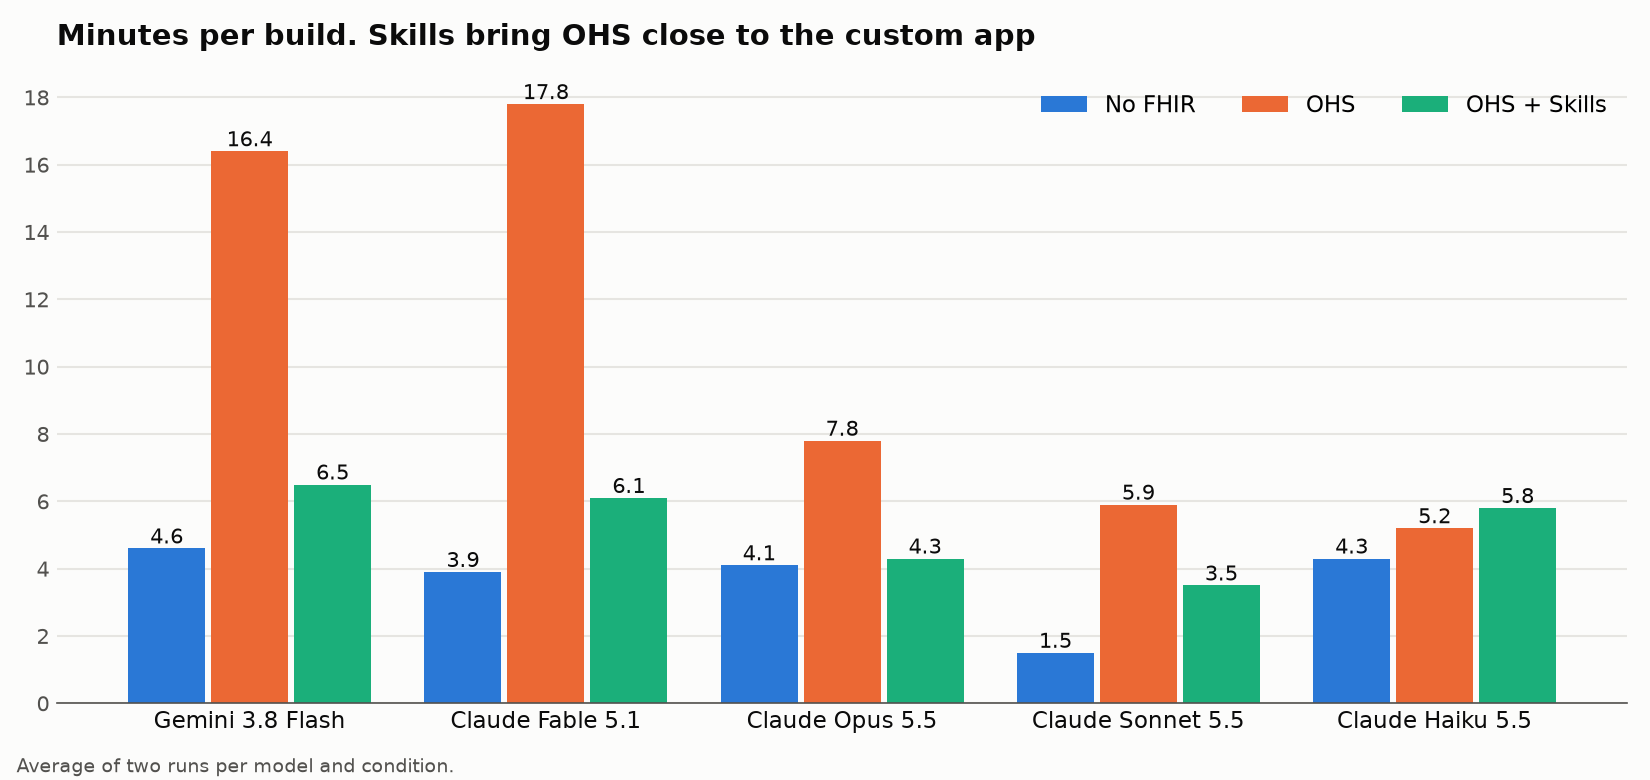
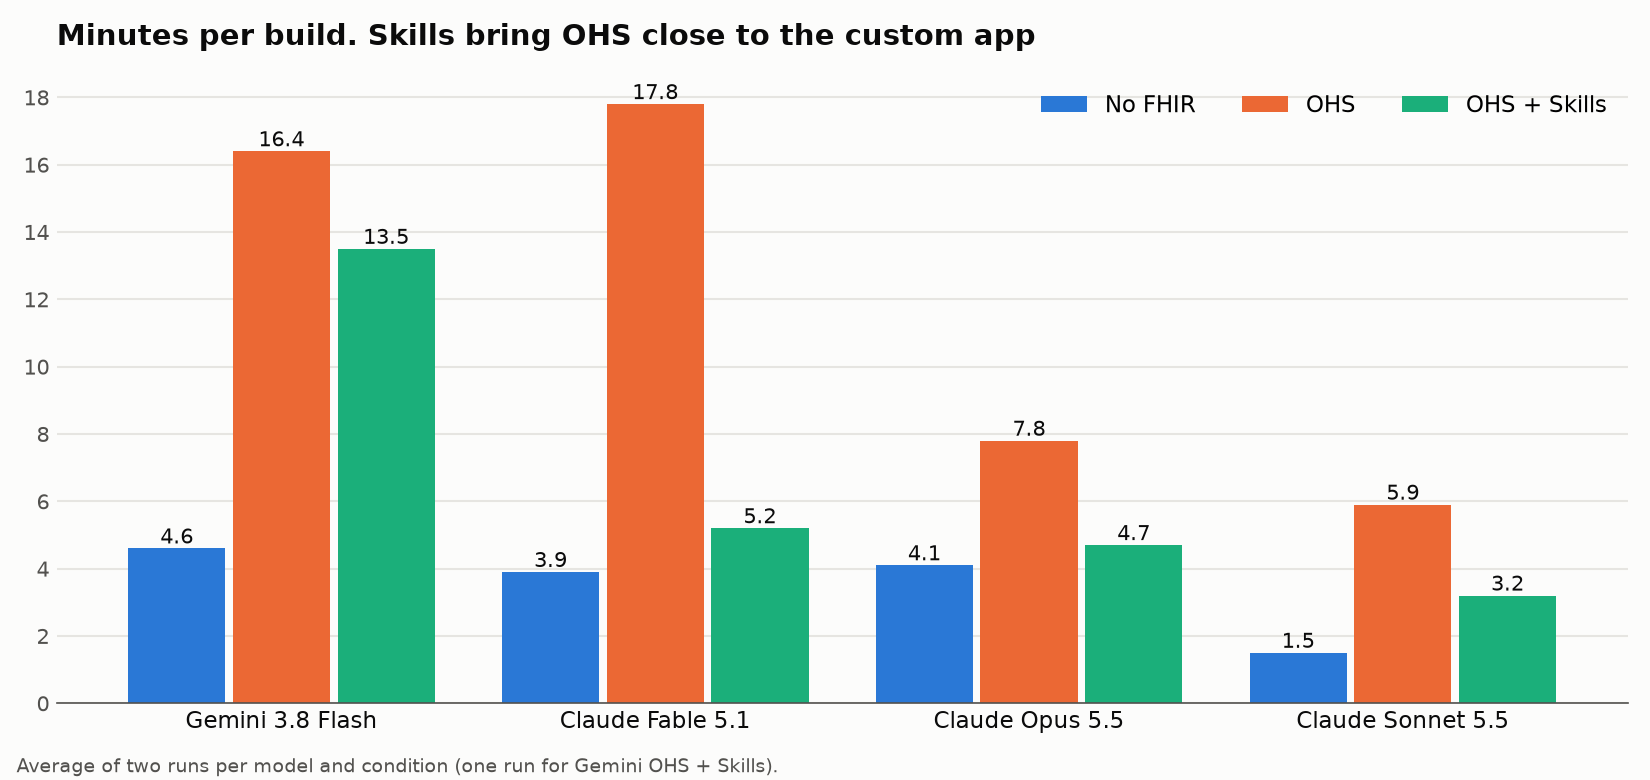
Record rerun walk results and stricter sync checks, update charts

Changed region(s): [[0.0927, 0.0923, 0.9582, 1.0]]

diff --git a/ohs-agent-experiment/results/plot_charts.py b/ohs-agent-experiment/results/plot_charts.py
@@ -19,14 +19,25 @@ MODELS = [
     ("claude-fable-5-1-medium", "Claude Fable 5.1"),
     ("claude-opus-5-5-medium", "Claude Opus 5.5"),
     ("claude-sonnet-5-5-medium", "Claude Sonnet 5.5"),
-    ("claude-haiku-5-5-medium", "Claude Haiku 5.5"),
 ]
 # Categorical slots 1-3 of the dataviz reference palette, checked for colorblind separation.
 CONDITIONS = [("cold", "No FHIR", "#2a78d6"), ("ohs", "OHS", "#eb6834"),
               ("ohs-skills", "OHS + Skills", "#1baf7a")]
 INK, MUTED, GRID = "#0b0b0b", "#52514e", "#e6e5e1"
 
-rows = list(csv.DictReader(open(HERE.parent / "results.csv")))
+# OHS + Skills uses the rerun with the fixed skill (skills v2.5); the other
+# conditions use the original runs 1 and 2. Haiku never built a working
+# offline app and is left out (see results/walk-offline-2026-10.md).
+SKILLS_RERUN = {"gemini-3.8-flash-medium": {"15"}}  # Claude models: runs 8 and 9
+
+
+def used(r):
+    if r["condition"] == "ohs-skills":
+        return r["replicate"] in SKILLS_RERUN.get(r["model"], {"8", "9"})
+    return r["condition"] in ("cold", "ohs") and r["replicate"] in ("1", "2")
+
+
+rows = [r for r in csv.DictReader(open(HERE.parent / "results.csv")) if used(r)]
 
 
 def avg(model, cond, column, step):
@@ -55,7 +66,7 @@ def plot(column, step, fmt, title, out):
     ax.spines["bottom"].set_color(MUTED)
     ax.legend(frameon=False, fontsize=11, ncols=3, loc="upper right")
     ax.set_title(title, fontsize=14, weight="bold", loc="left", color=INK, pad=14)
-    fig.text(0.01, 0.01, "Average of two runs per model and condition.", fontsize=9, color=MUTED)
+    fig.text(0.01, 0.01, "Average of two runs per model and condition (one run for Gemini OHS + Skills).", fontsize=9, color=MUTED)
     fig.tight_layout(rect=(0, 0.03, 1, 1))
     fig.savefig(HERE / out, dpi=150, facecolor="#fcfcfb")
 

diff --git a/ohs-agent-experiment/results/walk-offline-2026-10.md b/ohs-agent-experiment/results/walk-offline-2026-10.md
@@ -121,6 +121,122 @@ Average 5.5/9.
 - **Fable run 2 was rerun.** The first attempt hung on a broken heredoc and a
   wait loop that matched itself. It was killed after 19 min and removed.
 
+## OHS + skills rerun with skills v2.5 (2026-10-28)
+
+The kotlin-fhir-engine skill was updated to v2.5 ("Sync without crashes",
+see `skills/README.md`) after the offline test above found the crash. The
+ohs-skills condition was rerun with the same prompt, templates, models and
+effort (`harness/manifest-skills-v25.txt`), then walked with the same 9
+checks. Claude models are replicates 8 and 9. Gemini uses replicates 13 and
+15: run 8 was discarded (a second emulator broke the harness), runs 10, 11
+and 14 were cancelled or interrupted, and runs 9, 12 and 16 were not walked
+(9 and 12 were slowed by heavy self-testing and API latency, 16 has no
+archived build).
+
+| App | 1 | 2 | 3 | 4 | 5 | 6 | 7 | 8 | 9 | Score |
+|---|---|---|---|---|---|---|---|---|---|---|
+| ohs-skills-gemini-13 | pass | pass | pass | pass | pass | pass | pass | pass | pass | 9/9 |
+| ohs-skills-gemini-15 | pass | pass | pass | pass | pass | pass | pass | pass | pass | 9/9 |
+| ohs-skills-haiku-8 | pass | pass | pass | pass | pass | pass | FAIL | FAIL | FAIL | 6/9 |
+| ohs-skills-haiku-9 | pass | pass | pass | pass | pass | pass | FAIL | FAIL | FAIL | 6/9 |
+| ohs-skills-sonnet-8 | pass | pass | pass | pass | pass | pass | pass | pass | pass | 9/9 |
+| ohs-skills-sonnet-9 | pass | pass | pass | pass | pass | pass | pass | pass | pass | 9/9 |
+| ohs-skills-opus-8 | pass | pass | pass | pass | pass | pass | pass | pass | pass | 9/9 |
+| ohs-skills-opus-9 | pass | pass | pass | pass | pass | pass | pass | pass | pass | 9/9 |
+| ohs-skills-fable-8 | pass | pass | pass | pass | pass | pass | pass | pass | pass | 9/9 |
+| ohs-skills-fable-9 | pass | pass | pass | pass | pass | pass | pass | pass | pass | 9/9 |
+
+Average 8.4/9 (skills v2.4: 7.9/9).
+
+- **The offline crash is gone.** Every app that uses FHIR Engine reopened
+  offline without crashing, showing a status such as "Waiting to sync" or
+  "Sync: Enqueued". The crash buffer stayed empty.
+- **Offline visits upload by themselves.** In all eight FHIR Engine apps the
+  visit saved offline reached the server within 60 seconds of reconnecting,
+  without relaunching the app (WorkManager retry). With skills v2.4 most
+  apps needed a relaunch.
+- **Haiku still never uses FHIR Engine.** Both apps send visits straight to
+  the server over HTTP, so they cannot load or save anything offline.
+- **Sonnet's apps do not upload the QuestionnaireResponse.** The Encounter
+  and Observations reach the server, which is all the checks require.
+- **Walk notes.** Fable 9 and Gemini 15 needed the offline visit entered a
+  second time by hand because the automated input missed; both apps then
+  passed. Haiku 9 and some others show a new visit only after reopening the
+  patient; counted as a pass for check 4, as before.
+
+Cost and time per build, average of the two walked runs, at API prices:
+
+| Model | Skills v2.4 | Skills v2.5 |
+|---|---|---|
+| Gemini 3.8 Flash | $1.46, 6.5 min | $1.29, 15.2 min |
+| Claude Fable 5.1 | $2.66, 6.1 min | $2.73, 5.2 min |
+| Claude Opus 5.5 | $1.31, 4.3 min | $1.17, 4.7 min |
+| Claude Sonnet 5.5 | $0.52, 3.5 min | $0.54, 3.2 min |
+| Claude Haiku 5.5 | $0.20, 5.8 min | $0.22, 5.7 min |
+
+The blog uses Gemini run 15 alone for OHS + skills ($1.22, 13.5 min). Cost barely changed. Gemini's time is not comparable: its steps took about
+twice as long per action (8 to 9 s, against about 4 s before) while the
+amount of work stayed the same, which points to slower API responses on the
+day of the rerun.
+
+## Stricter sync checks: strict upload check and check 10 (2026-10-28)
+
+Several apps without skills passed the upload check (check 7 in this file, check 8 in the blog) only because the test reopened
+them, which triggered their sync. Two stricter checks separate sync that
+keeps working on its own from sync that only runs while the app is open.
+
+- **Strict upload check, "uploads by itself".** The offline visit reaches the
+  server once the network is back, without reopening the app or tapping
+  anything. Re-scored from the offline test above, no new runs.
+- **Check 10, "uploads even if the app is closed".** Fresh server and
+  install, open online, airplane mode on, save a visit, press Home and
+  `am kill` the app (ends the process but keeps scheduled WorkManager work,
+  unlike force-stop), network back within 30 s, never reopen the app, watch
+  the server for 5 minutes. The script first confirms the save went through
+  (form closed) so a missed tap cannot show up as a fail.
+
+Check 10 was run on the 12 apps that can save offline. Every other app
+already fails the offline save check, so it fails both stricter checks too.
+
+| App | Strict upload | Check 10 | How it syncs |
+|---|---|---|---|
+| ohs-skills-gemini-13 (v2.5) | pass | pass, within 30 s | WorkManager retry (`FhirSyncWorker`) |
+| ohs-skills-gemini-15 (v2.5) | pass | pass, within 30 s | same |
+| ohs-skills-sonnet-8 (v2.5) | pass | pass, within 30 s | same |
+| ohs-skills-sonnet-9 (v2.5) | pass | pass, within 30 s | same |
+| ohs-skills-opus-8 (v2.5) | pass | pass, within 30 s | same |
+| ohs-skills-opus-9 (v2.5) | pass | pass, within 30 s | same |
+| ohs-skills-fable-8 (v2.5) | pass | pass, within 30 s | same |
+| ohs-skills-fable-9 (v2.5) | pass | pass, within 30 s | same |
+| ohs-opus-1 | FAIL | FAIL | `runSync` inside the app process, no scheduled work |
+| ohs-opus-2 | FAIL | FAIL | `runSync` tied to the screen |
+| ohs-fable-1 | FAIL | FAIL | sync worker enqueued with no retries, failed at once offline |
+| ohs-fable-2 | FAIL | FAIL | own HTTP PUT that runs only while the app is open |
+
+In check 10 every v2.5 app showed a sync job that failed offline with
+`RETRY`, then WorkManager restarted the app process in the background and
+uploaded the visit. The four apps without skills scheduled no retryable
+work, so nothing ran until the app was opened again.
+
+Test notes: the first check 10 attempt on ohs-skills-opus-8 was invalid
+(the save never happened) and was redone with the save confirmed. One
+attempt on ohs-fable-1 froze the app with an ANR during the scripted typing
+and was redone with gentler input.
+
+### Scores out of 10 (strict upload check plus check 10)
+
+| Model | OHS (libraries only) | OHS + Skills, v2.5 |
+|---|---|---|
+| Gemini 3.8 Flash | 8 | 10 |
+| Claude Fable 5.1 | 8 | 10 |
+| Claude Opus 5.5 | 8 | 10 |
+| Claude Sonnet 5.5 | 6 | 10 |
+| Claude Haiku 5.5 | 4 | 6 |
+| **Average** | 6.8 | 9.2 |
+
+With the stricter checks no app built without skills is fully working, and
+every v2.5 skills app except Haiku's is.
+
 ## Limits
 
 - One visit per app, one offline period.
